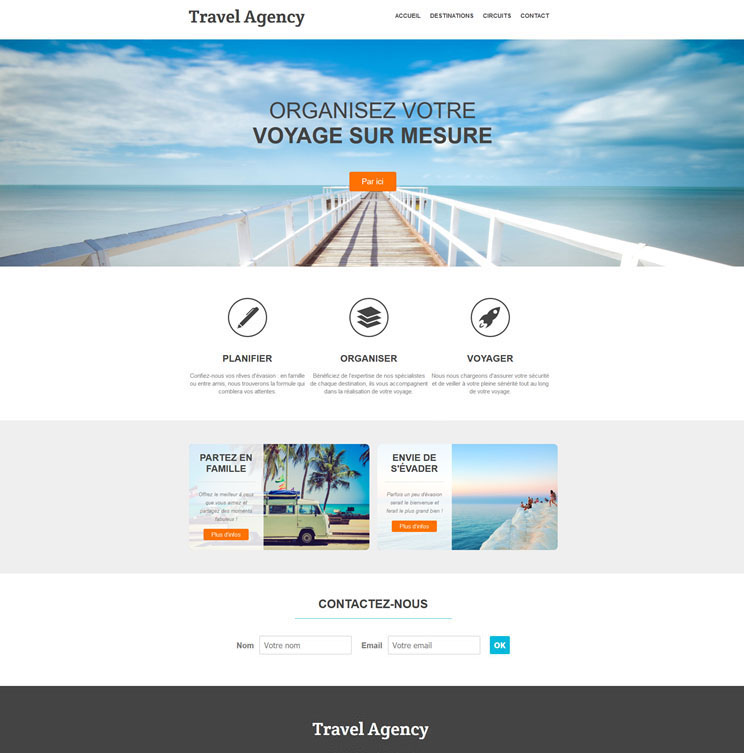
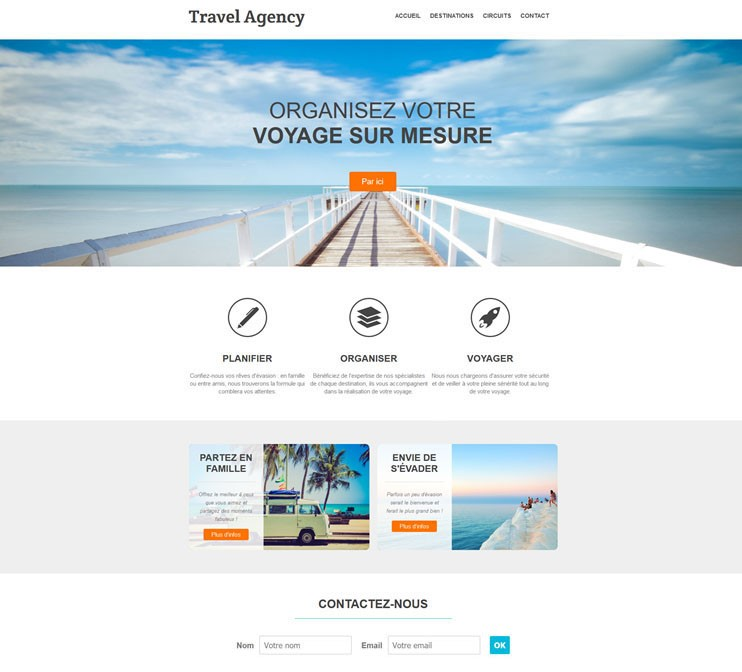
Ajout galerie et réglages

diff --git a/css/style.css b/css/style.css
@@ -48,7 +48,7 @@ body {
     background-image: url(../img/fondaccueil.jpg);
     background-color: #F5EFF4;
     top: 0;
-    z-index: 1;
+    z-index: 2;
 }
 
 .nav div.logo {
@@ -320,6 +320,7 @@ footer {
     background-image: url(../img/fondaccueil.jpg);
     background-color: #F5EFF4;
     bottom: 0;
+    z-index: 2;
 }
 
 .socialmedia {
@@ -368,7 +369,7 @@ section {
 
 section .contenu {
     vertical-align: middle;
-    padding: 120px 0;
+    padding: 170px 0 100px 0;
 }
 
 section .contenu h1 {
@@ -433,7 +434,7 @@ section .contenu .pacc a:hover {
 
 section .contenu form {
     background-color: rgba(200,200,200,0.6);
-    padding: 40px;
+    padding: 30px 70px;
     text-align: center;
     letter-spacing: 1px;
     font-size: 0.9em;
@@ -443,7 +444,7 @@ section .contenu form {
 
 
 section .contenu form div {
-    padding: 25px;
+    padding: 15px;
     display: flex;
     flex-wrap: wrap;
     justify-content: space-around;
@@ -452,7 +453,7 @@ section .contenu form div {
 }
 
 section .contenu form div input {
-    margin: 10px;
+    margin: 5px;
     padding: 8px;
     text-align: center;
     width: 50%;
@@ -470,7 +471,7 @@ form div textarea {
     text-align: center;
     padding: 10px;
     width: 100%;
-    height: 100px;
+    height: 80px;
     background-color: #F5EFF4;
     color: #545452;
     letter-spacing: 3px;
@@ -776,15 +777,111 @@ section .contenu .tuto button {
 
 .mySlides .tableInSlide tr th {
     text-align: center;
-    padding: 2px 35px;
+    padding: 2px 15px;
 }
 
 .mySlides .tableInSlide tr td {
     text-align: center;
-    padding: 2px 35px;
+    padding: 2px 15px;
     font-size: 0.8em;
     letter-spacing: 2px;
 }
+
+/* GALERIE */
+
+img {
+    vertical-align: middle;
+}
+
+.galerie {
+    position: relative;
+}
+
+.galerie .img-slide {
+    display: none;
+    margin-bottom: 20px;
+}
+
+.galerie .curseur {
+    cursor: pointer;
+}
+
+.img-prec,
+.img-suiv {
+    cursor: pointer;
+    position: absolute;
+    top: 0;
+    width: auto;
+    padding: 16px;
+    margin-top: 0;
+    color: rgba(245, 239, 244,0.8);
+    font-weight: bold;
+    font-size: 3.8em;
+    border-radius: 0 3px 3px 0;
+    user-select: none;
+    -webkit-user-select: none;
+}
+
+.img-suiv {
+    right: 0;
+    border-radius: 3px 0 0 3px;
+}
+
+.img-prec:hover,
+.img-suiv:hover {
+    color: #F5EFF4;
+}
+
+.galerie .img-caption {
+    text-align: center;
+    height: auto;
+    background-color: rgba(84, 84, 82, 0.8);
+    padding: 12px 40px;
+    margin-bottom: 20px;
+}
+
+#caption {
+    background: none;
+    letter-spacing: 10px;
+    color: #F5EFF4;
+    font-size: 1.5em;
+}
+
+.galerie .row:after {
+    content: "";
+    display: table;
+    clear: both;
+}
+
+.galerie .column {
+    float: left;
+    width: 16.66%;
+}
+
+.galerie .demo {
+    opacity: 0.6;
+}
+
+.img-active,
+.demo:hover {
+    opacity: 1;
+}
+
+
+
+
+
+
+
+
+
+
+
+
+
+
+
+
 
 
 
@@ -805,7 +902,7 @@ section .contenu .tuto button {
 
 @media screen and (max-width:800px) {
     .nav div.logo a {
-        font-size: 1.5em;
+        font-size: 2.5em;
     }
     .credit {
         display: none;
@@ -948,6 +1045,20 @@ section .contenu .tuto button {
         font-size: 1em;
     }
 }
+
+/* MEDIA QUERY PAGE GELERIE */
+
+@media screen and (max-width: 800px) {
+    .img-prec,
+    .img-suiv {
+        font-size: 2.7em;
+    }
+    #caption {
+        letter-spacing: 5px;
+        font-size: 0.8em;
+    }
+}
+
 
 
 

diff --git a/files/content/c_galerie.php b/files/content/c_galerie.php
@@ -2,7 +2,115 @@
     <div class="contenu">
         <h1>{ Galerie }</h1>
         <h2>Projet - Art - Craft</h2>
-        <p> EN COURS </p>
+        <!-- GALERIE -->
+
+        <div class="galerie">
+            <div class="img-caption">
+                <p id="caption"></p>
+            </div>
+
+            <div class="img-slide">
+                <img src="img/galerie/autoform.jpg" style="width:100%" alt="">
+            </div>
+
+            <div class="img-slide">
+                <img src="img/galerie/preformation.jpg" style="width:100%" alt="">
+            </div>
+
+            <div class="img-slide">
+                <img src="img/galerie/photoshop.jpg" style="width:100%" alt="">
+            </div>
+
+            <div class="img-slide">
+                <img src="img/galerie/montagne.jpg" style="width:100%" alt="">
+            </div>
+
+            <div class="img-slide">
+                <img src="img/galerie/indianwall.jpg" style="width:100%" alt="">
+            </div>
+
+            <div class="img-slide">
+                <img src="img/galerie/shroums.jpg" style="width:100%" alt="">
+            </div>
+
+            <div class="img-slide">
+                <img src="img/galerie/indianboat.jpg" style="width:100%" alt="">
+            </div>
+
+            <div class="img-slide">
+                <img src="img/galerie/mcentral.jpg" style="width:100%" alt="">
+            </div>
+
+            <div class="img-slide">
+                <img src="img/galerie/dczoo.jpg" style="width:100%" alt="">
+            </div>
+
+            <a class="img-prec" onclick="plusSlides(-1)">❮</a>
+            <a class="img-suiv" onclick="plusSlides(1)">❯</a>
+
+
+            <div class="row">
+                <div class="column">
+                    <img class="demo curseur" src="img/galerie/mini/autoform.jpg" style="width:100%" onclick="currentSlide(1)" alt="Site en HTML et CSS - 2018">
+                </div>
+                <div class="column">
+                    <img class="demo curseur" src="img/galerie/mini/preformation.jpg" style="width:100%" onclick="currentSlide(2)" alt="Site de la préformation pour le CF2M - 2020">
+                </div>
+                <div class="column">
+                    <img class="demo curseur" src="img/galerie/mini/photoshop.jpg" style="width:100%" onclick="currentSlide(3)" alt="Travaux pratiques Photoshop - 2020">
+                </div>
+                <div class="column">
+                    <img class="demo curseur" src="img/galerie/mini/montagne.jpg" style="width:100%" onclick="currentSlide(4)" alt="Photographie Allemagne - 2013">
+                </div>
+                <div class="column">
+                    <img class="demo curseur" src="img/galerie/mini/indianwall.jpg" style="width:100%" onclick="currentSlide(5)" alt="Photographie Inde - 2015">
+                </div>
+                <div class="column">
+                    <img class="demo curseur" src="img/galerie/mini/shroums.jpg" style="width:100%" onclick="currentSlide(6)" alt="Phographie montagne - 2014">
+                </div>
+                <div class="column">
+                    <img class="demo curseur" src="img/galerie/mini/indianboat.jpg" style="width:100%" onclick="currentSlide(7)" alt="Photographie Inde - 2015">
+                </div>
+                <div class="column">
+                    <img class="demo curseur" src="img/galerie/mini/mcentral.jpg" style="width:100%" onclick="currentSlide(8)" alt="Photographie France - 2012">
+                </div>
+                <div class="column">
+                    <img class="demo curseur" src="img/galerie/mini/dczoo.jpg" style="width:100%" onclick="currentSlide(9)" alt="¨Photographie USA - 2018">
+                </div>
+            </div>
+        </div>
+
+        <script>
+            var slideIndex = 1;
+            showSlides(slideIndex);
+
+            function plusSlides(n) {
+                showSlides(slideIndex += n);
+            }
+
+            function currentSlide(n) {
+                showSlides(slideIndex = n);
+            }
+
+            function showSlides(n) {
+                let i;
+                let slides = document.getElementsByClassName("img-slide");
+                let demo = document.getElementsByClassName("demo");
+                let captionText = document.getElementById("caption");
+                if (n > slides.length) {slideIndex = 1}
+                if (n < 1) {slideIndex = slides.length}
+                for (i = 0; i < slides.length; i++) {
+                    slides[i].style.display = "none";
+                }
+                for (i = 0; i < demo.length; i++) {
+                    demo[i].className = demo[i].className.replace(" img-active", "");
+                }
+                slides[slideIndex-1].style.display = "block";
+                demo[slideIndex-1].className += " img-active";
+                captionText.innerHTML = demo[slideIndex-1].alt;
+            }
+        </script>
+
         <button>
             <a href="?p=acc">Retour à l'accueil</a>
         </button>

diff --git a/files/content/c_accueil.php b/files/content/c_accueil.php
@@ -6,7 +6,7 @@
         <!-- PRÉSENTATION -->
 
         <p><span class="big">Bonjour visiteur !</span><br><br>
-            Je m'appelle Audrey et pendant plus d'un an je vais continuer à apprendre ce qu'il faut savoir pour devenir Web Developer ! Ce portfolio est un devoir pratique pour mon école, mais je le garderai par la suite. Tu peux y trouver des images de ce que je fais pour l'école et pendant mon temps libre, comme de la peinture et de la photo sur la page "galerie". Dans la partie "tutoriel" vous pourrez j'espère apprendre quelque chose aussi, avec soit mon petit tutoriel fait maison ou avec mon tutoriel favori et si vous voulez en voir plus je vous ai regroupé les sites utiles sur la page "lien".<br><br>
+            Je m'appelle Audrey et pendant plus d'un an je vais continuer à apprendre ce qu'il faut savoir pour devenir Web Developer ! Ce portfolio est un devoir pratique pour mon école, mais je le garderai par la suite. Tu peux y trouver des images de ce que je fais pour l'école et pendant mon temps libre, comme de la peinture et de la photo sur la page "galerie". Dans la partie "tutoriel" vous pourrez j'espère apprendre quelque chose aussi, avec soit mon petit tutoriel fait maison ou avec mon tutoriel favori et si vous voulez en voir plus je vous ai regroupé les sites utiles sur la page "liens".<br><br>
             Mon CV sera bientôt en ligne et si tu veux me laisser un message ou que tu as une question n'hésite pas à aller sur la page contact, j'aimerais avoir ton avis !</p>
 
         <!-- BOUTON CONTACT -->
